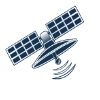
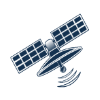
view update

diff --git a/src/simulation/Simulation.java b/src/simulation/Simulation.java
@@ -1,22 +1,19 @@
 package simulation;
 
-import java.awt.*;
 import java.awt.event.ActionEvent;
 import java.awt.event.ActionListener;
+import java.io.File;
+import java.io.IOException;
 import java.util.Random;
-
-import javax.swing.*;
 import javax.swing.event.ChangeEvent;
 import javax.swing.event.ChangeListener;
-
 import model.Balise;
 import model.DeplHorizontal;
 import model.DeplSatellite;
-import model.DeplVertical;
 import model.Deplacement;
 import model.Manager;
 import model.Satellite;
-import nicellipse.component.NiRectangle;
+import nicellipse.component.NiImage;
 import nicellipse.component.NiSpace;
 import views.GrBalise;
 import views.GrEther;
@@ -40,14 +37,6 @@ import javax.swing.Box;
  * @author ELENGA Alphonse Junior & OUAKSEL boukhalfa
  * @version 1.0
  */
-
-/**
- * Classe Simulation pour lancer l'application.
- *
- * @version 2.0
- * @since 1.0
- */
-
 public class Simulation {
 	final int FPS_MIN = 2;
 	final int FPS_MAX = 500;
@@ -58,8 +47,11 @@ public class Simulation {
 	Dimension worldDim = new Dimension(900, 700);
 	NiSpace world = new NiSpace("Satellite & AirTag", this.worldDim);
 	GrEther ether = new GrEther();
-	NiRectangle sea = new NiRectangle();
-	NiRectangle sky = new NiRectangle();
+	NiImage sea = new NiImage(new File("sea.png"));
+	NiImage sky = new NiImage(new File("sky.jpg"));
+
+	public Simulation() throws IOException {
+	}
 
 	public void animation() {
 		ActionListener taskPerformer = new ActionListener() {
@@ -184,7 +176,7 @@ public class Simulation {
 	 * @param startPos Position de départ.
 	 * @param depl déplacement de la balise ajouté.
 	 */
-	public void addBalise(JPanel sea, int memorySize, Point startPos, Deplacement depl) {
+	public void addBalise(NiImage sea, int memorySize, Point startPos, Deplacement depl) {
 		Balise bal = new Balise(memorySize);
 		bal.setPosition(startPos);
 		bal.setDeplacement(depl);
@@ -199,6 +191,7 @@ public class Simulation {
 	 * Supprime une balise dans la mer par le manager et graphiquement
 	 */
 	public void deleteBalise() {
+		if(sea.getComponents().length<=1) return;
 		for (Component component : sea.getComponents()) {
 				sea.remove(component);
 				manager.deleteBalise(((GrBalise) component).getModel());
@@ -213,7 +206,7 @@ public class Simulation {
 	 * @param startPos Position de départ.
 	 * @param vitesse vitesse du satellite que l'on ajoute.
 	 */
-	public void addSatelitte(JPanel sky, int memorySize, Point startPos, int vitesse) {
+	public void addSatelitte(NiImage sky, int memorySize, Point startPos, int vitesse) {
 		Satellite sat = new Satellite(memorySize);
 		sat.setPosition(startPos);
 		sat.setDeplacement(new DeplSatellite(-10, 1000, vitesse));
@@ -227,6 +220,7 @@ public class Simulation {
 	 * Supprime un satellite dans le ciel par le manager le ciel
 	 */
 	public void deleteSatellite() {
+		if(sky.getComponents().length<=1) return;
 		for (Component component : sky.getComponents()) {
 				sky.remove(component);
 				manager.deleteSatellite(((GrSatellite) component).getModel());
@@ -237,7 +231,7 @@ public class Simulation {
 	/**
 	 * Lancement de l'application
 	 */
-	public void launch() {
+	public void launch() throws IOException {
 		JLayeredPane main = new JLayeredPane();
 		main.setOpaque(true);
 		main.setSize(this.worldDim);
@@ -247,7 +241,6 @@ public class Simulation {
 		this.ether.setOpaque(false);
 		this.ether.setDimension(this.worldDim);
 
-		sky.setBackground(Color.white);
 		sky.setDimension(new Dimension(this.worldDim.width, this.worldDim.height / 2));
 		//ajout de bordure autour du ciel
 		sky.setBorder(BorderFactory.createMatteBorder(2, 2, 0, 2, Color.black));
@@ -273,7 +266,7 @@ public class Simulation {
 		this.animation();
 	}
 
-	public static void main(String[] args) {
+	public static void main(String[] args) throws IOException {
 		new Simulation().launch();
 	}
 

diff --git a/src/views/GrBalise.java b/src/views/GrBalise.java
@@ -14,7 +14,7 @@ public class GrBalise extends GrElementMobile {
 
 	public GrBalise(GrEther ether) {
 		super(ether);
-		File path = new File("balise-airtag.png");
+		File path = new File("bal_humain.png");
 		BufferedImage rawImage = null;
 		try {
 			rawImage = ImageIO.read(path);

diff --git a/src/views/GrSatellite.java b/src/views/GrSatellite.java
@@ -14,7 +14,7 @@ public class GrSatellite extends GrElementMobile {
 
 	public GrSatellite(GrEther ether) {
 		super(ether);
-		File path = new File("satellite.png");
+		File path = new File("sat.png");
 		BufferedImage rawImage = null;
 		try {
 			rawImage = ImageIO.read(path);
